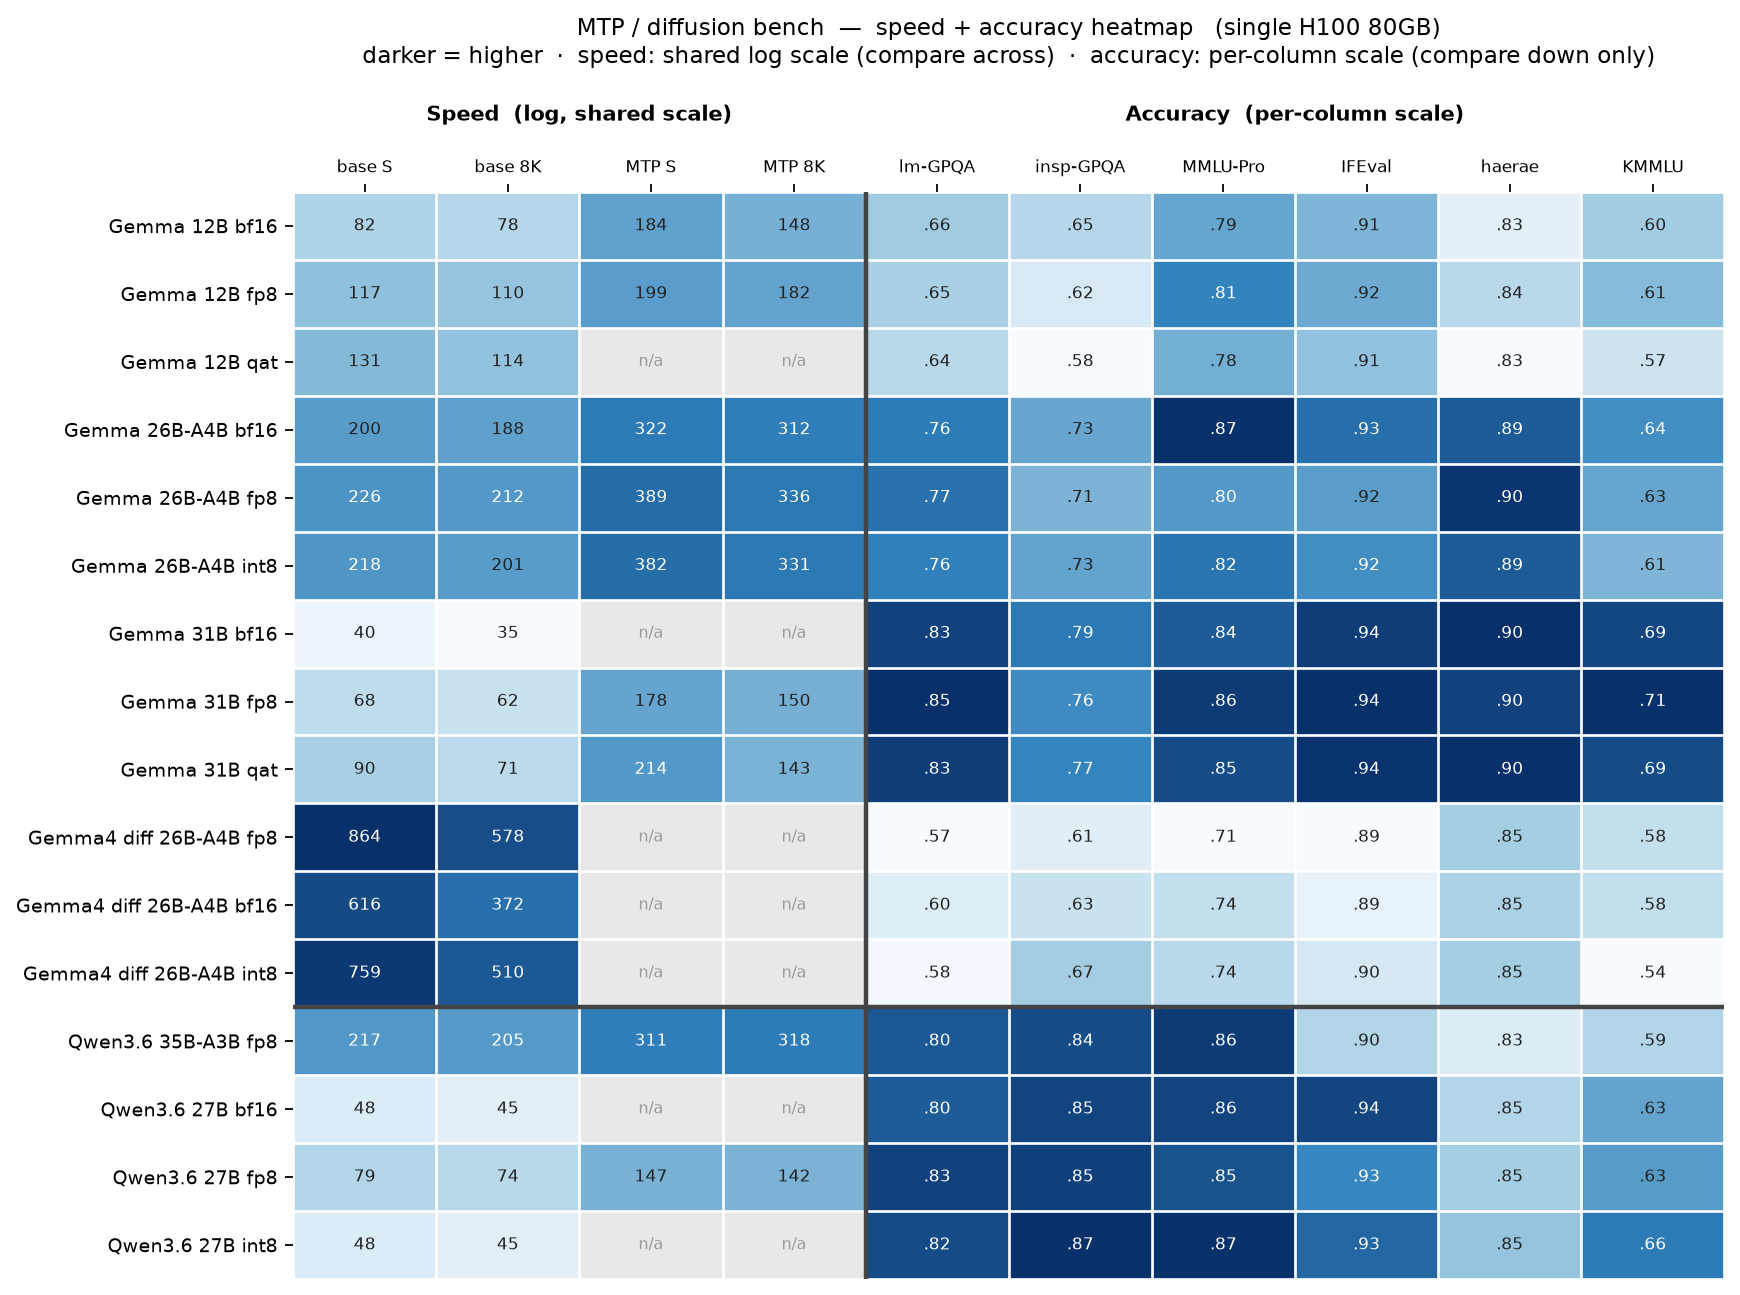
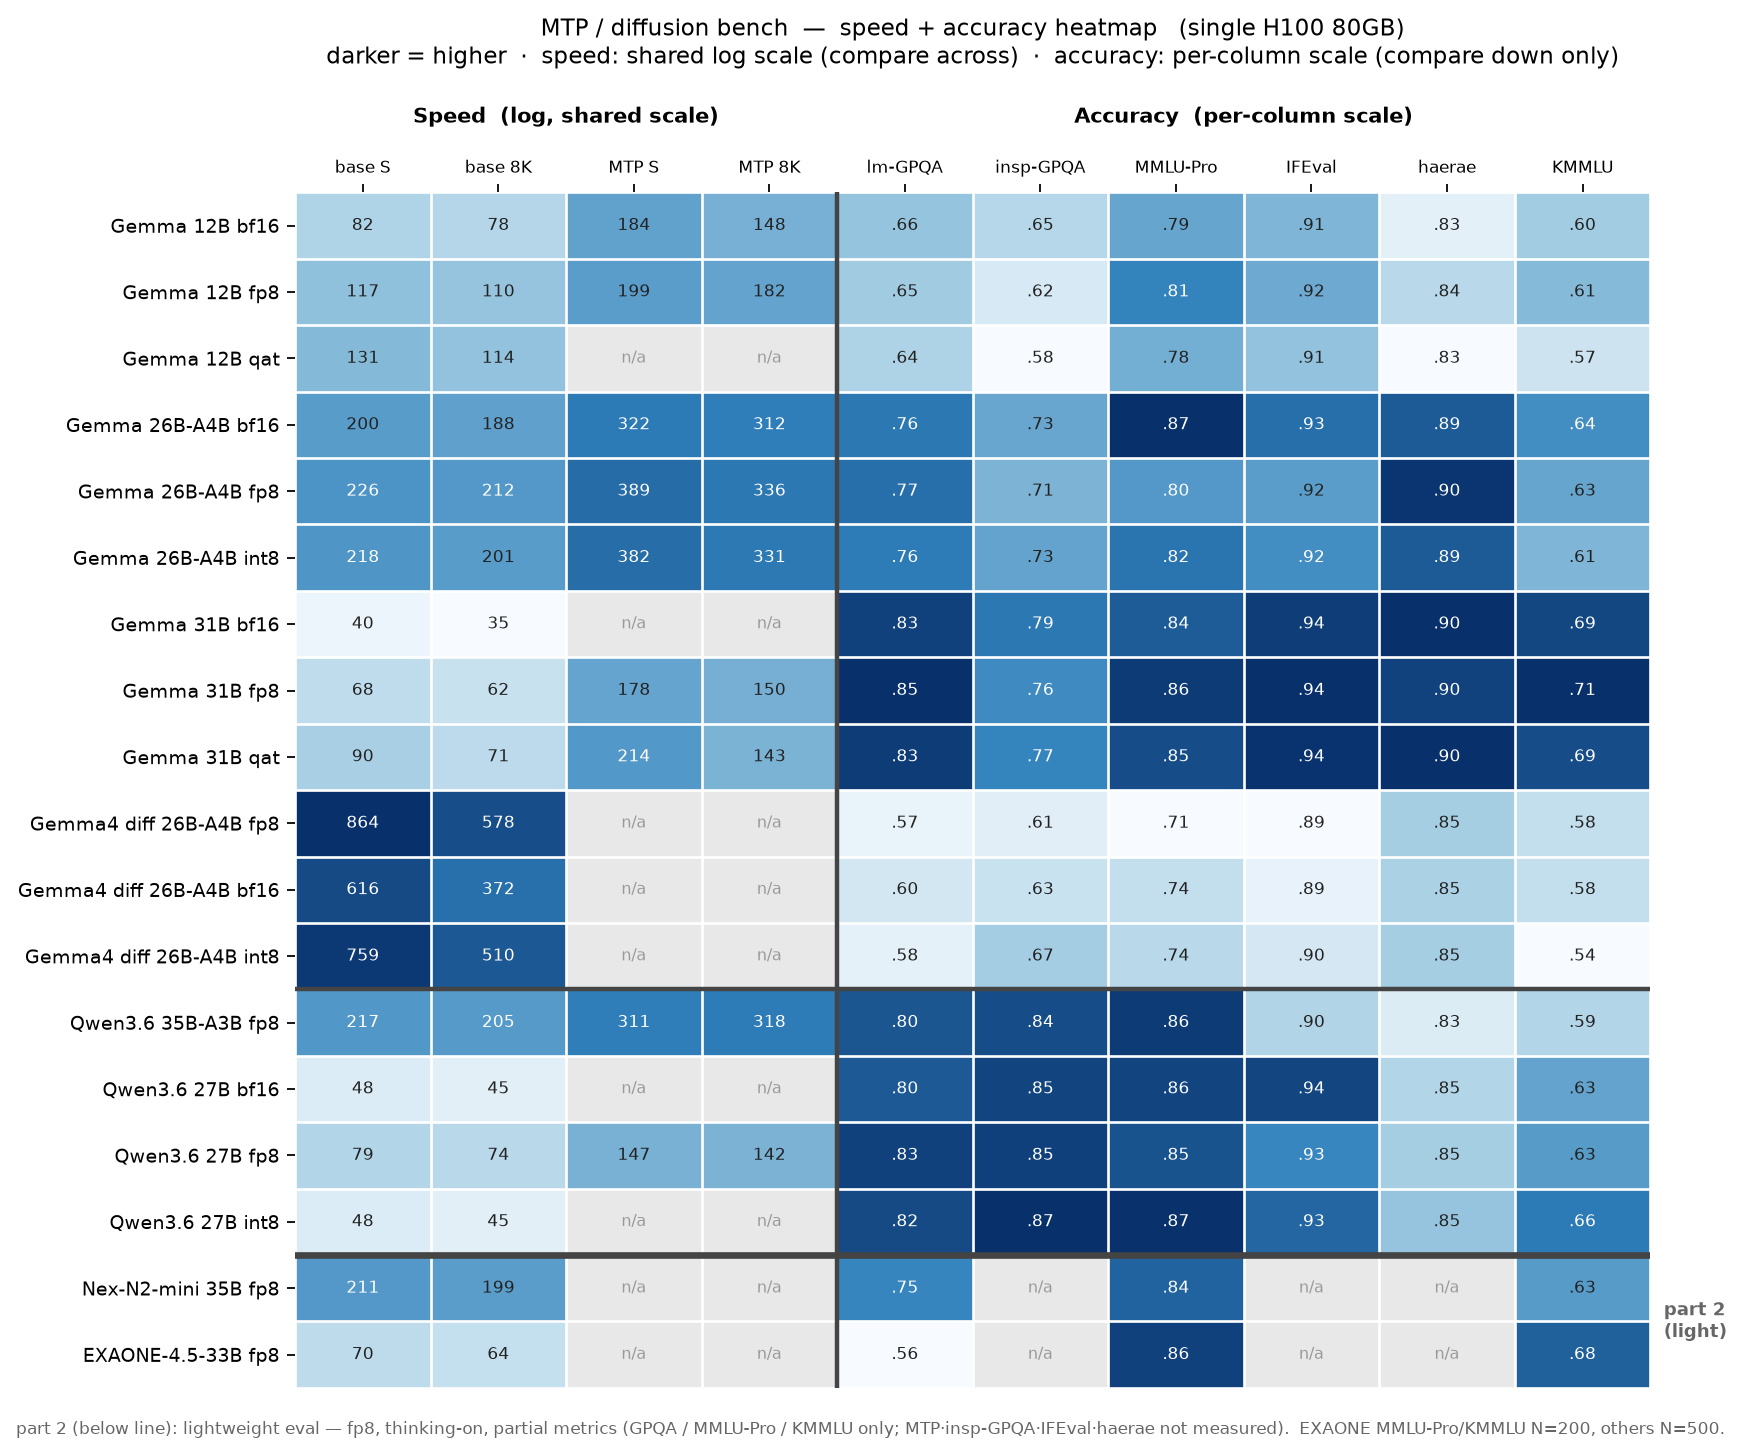
feat(heatmap): 2부 경량평가 Nex-N2-mini·EXAONE-4.5 행 추가(굵은 경계선·부분지표 n/a·하단 주석), 캐시 v5

diff --git a/report/make_heatmap.py b/report/make_heatmap.py
@@ -35,7 +35,11 @@ rows = [
     ("Qwen3.6 27B bf16",  [48, 45, N, N],       [0.798, 0.848, 0.856, 0.939, 0.846, 0.628]),
     ("Qwen3.6 27B fp8",   [79, 74, 147, 142],   [0.828, 0.854, 0.846, 0.925, 0.850, 0.634]),
     ("Qwen3.6 27B int8",  [48, 45, N, N],       [0.818, 0.874, 0.868, 0.932, 0.854, 0.658]),
+    # 2부 경량 평가(fp8, thinking-on, 부분 지표): GPQA·MMLU-Pro·KMMLU만
+    ("Nex-N2-mini 35B fp8",   [211, 199, N, N], [0.747, N, 0.836, N, N, 0.634]),
+    ("EXAONE-4.5-33B fp8",    [70, 64, N, N],   [0.556, N, 0.858, N, N, 0.675]),
 ]
+N_PART1 = 16  # 1부 행 수(아래는 2부 참고 블록)
 spd_cols = ["base S", "base 8K", "MTP S", "MTP 8K"]
 acc_cols = ["lm-GPQA", "insp-GPQA", "MMLU-Pro", "IFEval", "haerae", "KMMLU"]
 cols = spd_cols + acc_cols
@@ -46,7 +50,7 @@ for i, (_, s, a) in enumerate(rows):
     for j, v in enumerate(s):
         raw[i, j] = np.nan if v is None else v
     for j, v in enumerate(a):
-        raw[i, 4 + j] = v
+        raw[i, 4 + j] = np.nan if v is None else v
 
 # 0..1 정규화 행렬
 norm = np.full_like(raw, np.nan)
@@ -66,7 +70,7 @@ for j in range(4, ncol):
 cmap = LinearSegmentedColormap.from_list("kblue", ["#f7fbff", "#9ecae1", "#3182bd", "#08306b"])
 cmap.set_bad("#e8e8e8")  # NA 셀
 
-fig, ax = plt.subplots(figsize=(11, 8.2))
+fig, ax = plt.subplots(figsize=(11, 9.2))
 masked = np.ma.masked_invalid(norm)
 ax.imshow(masked, cmap=cmap, aspect="auto", vmin=0, vmax=1)
 
@@ -89,12 +93,16 @@ ax.set_yticklabels([r[0] for r in rows], fontsize=8.5)
 ax.tick_params(top=True, labeltop=True, bottom=False, labelbottom=False)
 plt.setp(ax.get_xticklabels(), rotation=0, ha="center")
 
-# 그룹 경계선: 속도|정확도(세로), Gemma|Qwen(가로)
+# 그룹 경계선: 속도|정확도(세로), Gemma|Qwen(가로), Qwen|2부(가로, 굵게)
 ax.axvline(3.5, color="#444", lw=2)
 ax.axhline(11.5, color="#444", lw=2)
+ax.axhline(N_PART1 - 0.5, color="#444", lw=3)  # 1부 | 2부 참고 블록
 # 그룹 헤더 (수평 열 라벨 바로 위)
 ax.text(1.5, -1.55, "Speed  (log, shared scale)", ha="center", fontsize=9.5, weight="bold")
 ax.text(6.5, -1.55, "Accuracy  (per-column scale)", ha="center", fontsize=9.5, weight="bold")
+# 2부 블록 라벨(오른쪽 끝)
+ax.text(ncol - 0.4, (N_PART1 + nrow - 1) / 2, "part 2\n(light)", ha="left", va="center",
+        fontsize=8, color="#666", weight="bold")
 
 ax.set_xticks(np.arange(-0.5, ncol, 1), minor=True)
 ax.set_yticks(np.arange(-0.5, nrow, 1), minor=True)
@@ -107,7 +115,12 @@ ax.set_title("MTP / diffusion bench  —  speed + accuracy heatmap   (single H10
              "darker = higher  ·  speed: shared log scale (compare across)  ·  "
              "accuracy: per-column scale (compare down only)",
              fontsize=10.5, pad=58)
-fig.tight_layout()
+fig.text(0.5, 0.02,
+         "part 2 (below line): lightweight eval — fp8, thinking-on, partial metrics "
+         "(GPQA / MMLU-Pro / KMMLU only; MTP·insp-GPQA·IFEval·haerae not measured).  "
+         "EXAONE MMLU-Pro/KMMLU N=200, others N=500.",
+         ha="center", fontsize=7.5, color="#666")
+fig.tight_layout(rect=[0, 0.035, 1, 1])
 out = "report/heatmap.png"
 fig.savefig(out, dpi=160, bbox_inches="tight", facecolor="white")
 print("saved", out)

diff --git a/README.md b/README.md
@@ -10,14 +10,15 @@
 
 ## 한눈에 — 속도 + 정확도 히트맵
 
-![속도+정확도 히트맵](report/heatmap.png?v=4)
+![속도+정확도 히트맵](report/heatmap.png?v=5)
 
-진할수록 상위. **두 그룹은 척도가 다르다.** 속도 4열(base S/8K·MTP S/8K)은 같은 tok/s 단위라 **공통 로그 척도**로 묶어 가로 비교가 되고(MTP 열이 base보다 진해지면 가속, 8K가 short보다 옅으면 긴 문맥 감속), 정확도 6열은 단위·동적범위가 제각각이라 **열별 min–max 독립 정규화**라 세로로만 읽는다(같은 진한 셀이라도 IFEval 0.94와 lm-GPQA 0.85는 절대값이 다름). base는 그 행의 기본 기법(AR, Gemma4 diff 행은 diffusion), `n/a`는 측정불가/해당없음(eager 폴백 비공정 속도 포함). 행은 Gemma 4 → Qwen 3.6 패밀리로 묶었다. 재현 스크립트는 [report/make_heatmap.py](report/make_heatmap.py).
+진할수록 상위. **두 그룹은 척도가 다르다.** 속도 4열(base S/8K·MTP S/8K)은 같은 tok/s 단위라 **공통 로그 척도**로 묶어 가로 비교가 되고(MTP 열이 base보다 진해지면 가속, 8K가 short보다 옅으면 긴 문맥 감속), 정확도 6열은 단위·동적범위가 제각각이라 **열별 min–max 독립 정규화**라 세로로만 읽는다(같은 진한 셀이라도 IFEval 0.94와 lm-GPQA 0.85는 절대값이 다름). base는 그 행의 기본 기법(AR, Gemma4 diff 행은 diffusion), `n/a`는 측정불가/해당없음(eager 폴백 비공정 속도 포함). 행은 Gemma 4 → Qwen 3.6 패밀리로 묶었고, **굵은 선 아래는 2부 경량 평가**(Nex-N2-mini·EXAONE-4.5)다 — fp8·thinking-on, 부분 지표(GPQA·MMLU-Pro·KMMLU만 측정, 나머지 n/a)라 1부와 동급 비교가 아닌 참고용이다. 재현 스크립트는 [report/make_heatmap.py](report/make_heatmap.py).
 
 - **Gemma4 diff: 속도 진함·정확도 옅음** — 가장 빠르지만 하드추론·지식이 일관되게 바닥(haerae만 중간). 4배 속도의 대가가 한 행에 그려진다.
 - **Gemma 31B·Qwen 27B: 속도 옅음·정확도 진함** — 정반대 극(dense 최상위 정확도, 느림).
 - **양자화 무손실**: 같은 모델의 bf16·fp8·int8·qat 행이 정확도 6열에서 거의 같은 색.
 - **Qwen 35B-A3B: GPQA/MMLU 진함·haerae/KMMLU 옅음** — 추론 최상위·한국어 약점.
+- **2부 Nex-N2-mini·EXAONE-4.5(참고)**: 경량인데 지식(MMLU-Pro)·한국어(KMMLU)는 1부 최상위급으로 진하다. 단 EXAONE은 lm-GPQA(하드추론)가 옅고 속도도 dense급(70 tok/s)으로 느리다.
 
 ## 1부 — 통합 결과표 (Gemma 4 / Qwen 3.6)
 